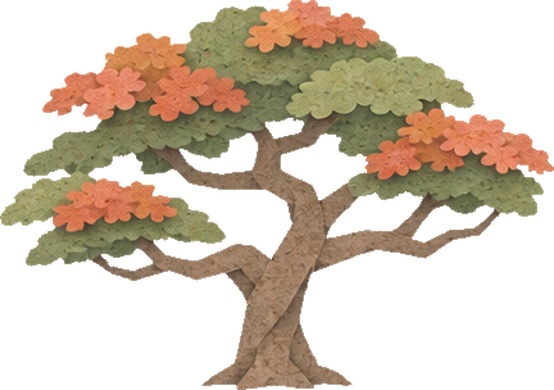
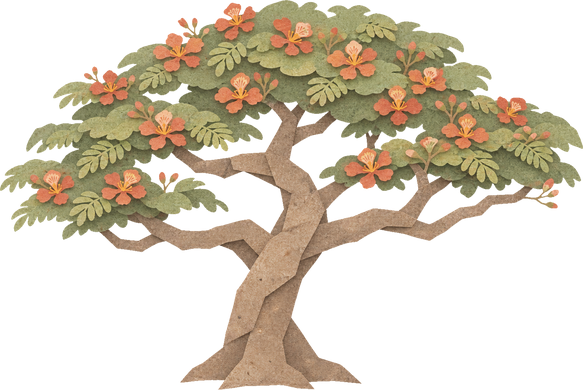
Tainan Gazetteer: picture variants; plumeria restored, flame tree redrawn
- Assets may list variants; street items and placed pieces pick one by position
  so repeats vary (art bible 9a).
- The user preferred the earlier plumeria: the true-size redraw was too sparse
  and realistic. The earlier one is the main picture again and candidate 1 of
  request 29 (fuller) is its variant; the guide now says to keep elements a
  consistent size but crowns full and clustered.
- Flame tree from request 30: candidates 1-3 (full crown, many small flowers)
  as the tree and two variants; more plumerias on the street and in the lane.
- Request 31 (bush, flower and grass variants) is with Codex.

Claude-Session: https://claude.ai/code/session_01SWmRBCoZi5zDewCs1B5KjF

diff --git a/yokai-night-market/src/data/manifest.ts b/yokai-night-market/src/data/manifest.ts
@@ -27,6 +27,7 @@ export interface Asset {
   tags?: string[];              // 'furniture' can be placed; 'landmark' stands on the street; 'stall'; 'fauna'
   replaces?: string[];          // older sprite keys this picture is drawn for
   name?: string;                // working label for editors and the backlog, not shown to players
+  variants?: string[];          // other pictures of the same thing (keys); the game picks one by position so repeats vary
 }
 
 const a = (key: string, layer: AssetLayer, height: number, status: AssetStatus, extra: Partial<Asset> = {}): Asset =>
@@ -50,7 +51,8 @@ export const ASSETS: Asset[] = [
   a('literature', 'building', 124, 'placeholder', { tags: ['landmark'], name: '臺灣文學館（舊臺南州廳；Codex 紙雕試畫，待核可）' }),
   a('panggongSide', 'building', 130, 'placeholder', { tags: ['landmark'], name: '泮宮石坊（斜角）' }),
   a('confuciusWall', 'decor', 54, 'placeholder', { tags: ['connector'], name: '孔廟紅圍牆' }),
-  a('plumeria', 'tree', 90, 'approved', { name: '雞蛋花' }),
+  a('plumeria', 'tree', 90, 'approved', { name: '雞蛋花', variants: ['plumeria1'] }),
+  a('plumeria1', 'tree', 90, 'approved', { name: '雞蛋花（變體，29 候選一）' }),
   a('norfolkPine', 'tree', 175, 'placeholder', { name: '南洋杉' }),
   a('rainTree', 'tree', 140, 'placeholder', { name: '雨豆樹' }),
   a('signLane', 'decor', 46, 'placeholder', { name: '告示牌：前往花巷（待核可）' }),
@@ -118,7 +120,9 @@ export const ASSETS: Asset[] = [
   a('sakura', 'tree', 120, 'approved', { source: 'atlas', cell: 6, tags: ['furniture'], footprint: [2, 2], name: '櫻花' }),
   a('maple', 'tree', 120, 'placeholder', { source: 'atlas', cell: 7, replaces: ['phoenix'], tags: ['furniture'], footprint: [2, 2], name: '楓樹（暫代鳳凰木）' }),
   a('banyan', 'tree', 150, 'placeholder', { name: '榕樹（待核可）' }),
-  a('flameTree', 'tree', 130, 'placeholder', { name: '鳳凰木（待核可）' }),
+  a('flameTree', 'tree', 130, 'placeholder', { name: '鳳凰木（30 候選一，待核可）', variants: ['flameTree2', 'flameTree3'] }),
+  a('flameTree2', 'tree', 130, 'placeholder', { name: '鳳凰木（變體）' }),
+  a('flameTree3', 'tree', 130, 'placeholder', { name: '鳳凰木（變體）' }),
   a('royalPalm', 'tree', 150, 'placeholder', { name: '大王椰子（待核可）' }),
   a('literatureSide', 'building', 102, 'placeholder', { name: '文學館側翼（待核可）' }),
   a('literatureWall', 'decor', 30, 'placeholder', { tags: ['connector'], name: '文學館矮圍牆（待核可）' }),
@@ -163,4 +167,11 @@ export const PENDING_ART = new Set<string>(SPRITE_ASSETS.filter((x) => x.status 
 export const REPLACES: Record<string, string> = {};
 for (const x of SPRITE_ASSETS) for (const old of x.replaces ?? []) REPLACES[old] = x.key;
 
+// the picture to draw for `key` at a position: the key itself or one of its variants, fixed per spot
+export function variantAt(key: string, a: number, b: number, has: (k: string) => boolean): string {
+  const all = [key, ...(ASSET[key]?.variants ?? [])].filter(has);
+  if (all.length < 2) return key;
+  const h = (Math.imul(a | 0, 73856093) ^ Math.imul(b | 0, 19349663)) >>> 0;
+  return all[h % all.length];
+}
 export const withTag = (tag: string): Asset[] => SPRITE_ASSETS.filter((x) => x.tags?.includes(tag));

diff --git a/yokai-night-market/src/render/place.ts b/yokai-night-market/src/render/place.ts
@@ -3,7 +3,7 @@
 // from the top of the yard down, so a bigger gy is nearer the camera and things sort by it. Every
 // placeable piece is designed to fill whole cells (its footprint in the manifest is width x depth
 // in cells). Walls are not handled yet; `surface` in the saved record keeps room for them.
-import { ASSET, withTag } from '../data/manifest';
+import { ASSET, variantAt, withTag } from '../data/manifest';
 import { hasArt } from './paperAtlas';
 import { spr } from './sprites';
 import { CH, CW, FLOOR_Y0, FLOOR_Y1, street, type StreetExtra } from './street';
@@ -75,7 +75,7 @@ export function placedExtras(list: Placed[]): StreetExtra[] {
       // centred on the cell and larger than it; sorted by the cell's front edge so nearer clumps overlap
       const cx = x0 + CW / 2, by = y0 + CH;
       return { y: by - 6, draw: (c: CanvasRenderingContext2D) => {
-        const s = spr(p.key), k = (CW * CLUMP) / s.w;
+        const s = spr(variantAt(p.key, p.gx, p.gy, hasArt)), k = (CW * CLUMP) / s.w;
         c.save(); c.translate(cx, by + CH * 0.15); c.scale((p.flip ? -1 : 1) * k, k); c.drawImage(s.c, -s.w / 2, -s.h, s.w, s.h); c.restore();
       } };
     }
@@ -84,7 +84,7 @@ export function placedExtras(list: Placed[]): StreetExtra[] {
     }
     const x = x0 + (w * CW) / 2, y = y0 + d * CH - 3;
     return { y, draw: (c: CanvasRenderingContext2D) => {
-      const s = spr(p.key);
+      const s = spr(variantAt(p.key, p.gx, p.gy, hasArt));
       // a small contact shadow, never wider than the piece's own cells
       const r = Math.min(s.w * 0.36, w * CW * 0.42);
       c.fillStyle = 'rgba(106,70,50,0.14)'; c.beginPath(); c.ellipse(x, y, r, Math.min(r * 0.28, 5), 0, 0, Math.PI * 2); c.fill();

diff --git a/yokai-night-market/src/render/street.ts b/yokai-night-market/src/render/street.ts
@@ -2,7 +2,7 @@
 // data (src/data/street.json and the asset manifest); this file only lays it out and draws it.
 import rawStreet from '../data/street.json';
 import rawLane from '../data/lane.json';
-import { ASSET } from '../data/manifest';
+import { ASSET, variantAt } from '../data/manifest';
 import { hasArt } from './paperAtlas';
 import { PUPPETS } from './puppet';
 import { spr } from './sprites';
@@ -281,7 +281,8 @@ function drawGround(c: CanvasRenderingContext2D, left: number): void {
   if (g) { c.fillStyle = g; c.fillRect(left, top, viewW, H - top); }
 }
 
-function drawItem(c: CanvasRenderingContext2D, it: StreetItem, y: number, alpha = 1): void {
+function drawItem(c: CanvasRenderingContext2D, it0: StreetItem, y: number, alpha = 1): void {
+  const it = { ...it0, key: variantAt(it0.key, Math.round(it0.x), 7, hasArt) };
   const asset = ASSET[it.key], k = it.scale ?? 1;
   c.globalAlpha = alpha;
   if (hasArt(it.key)) {

diff --git a/yokai-night-market/docs/art/ART-BIBLE.md b/yokai-night-market/docs/art/ART-BIBLE.md
@@ -22,10 +22,13 @@
 ### 尺度與密度
 8. **建築 compact。** 只取最有辨識度的一段，寬不超過高的 1.4 倍（例外寫在各類別）。需要長的建築就拆段：中段加可接的側翼（例：文學館攤開三面）。
 9. **密度要低、元素要大。** 一格裡只放一兩個主體：一格一朵花（或一大一小）、一格一塊石板、柵欄木樁之間大片透空。細碎、擠滿的圖案退回。
+9a. **常見的東西要有變體。** 植物（花叢、灌木、草叢、樹）每種準備二到四個版本，同顏色同葉子大小、但輪廓與花葉排法不同；遊戲依位置自動輪流挑（manifest 的 `variants`），大量擺放時不會一模一樣（2026-11-22 使用者）。
+9a. **常見的東西要有變體。** 植物（花叢、灌木、草叢、樹）每種準備二到四個版本，同顏色同葉子大小、但輪廓與花葉排法不同；遊戲依位置自動輪流挑（manifest 的 `variants`），大量擺放時不會一模一樣（2026-11-22 使用者）。
 10. **畫面要近、要滿。** 遊戲畫面裡建築和人物要大，不留大片空白；這主要由程式調整，但物件比例要能承受放大。
 
 10a. **照遊戲裡的實際大小生成，不靠縮放。** 遊戲比例是壓縮過的（不照真實比例：人約 58 單位高）。每個物件照下表的遊戲尺寸單張生成，存檔解析度是遊戲尺寸的 6 倍（例如 150 單位高的樹畫成約 900 px 高），不放進 3×2 格子表再縮放。這樣每張圖的紙纖維、印刷顆粒和剪紙元素在畫面上一樣大，看不出縮放痕跡（2026-11-22 使用者：「材質和輪廓的表現一定會被看出有 scaling 的痕跡」）。
-    - 元素大小固定：一片葉子約 6–9 單位、一朵花約 5–8 單位、一塊磚約 3×1.5 單位、一顆石板約 20 單位。小樹也用同樣大小的葉子，所以葉子數量少，而不是葉子變大。
+    - 元素大小大致固定：一片葉子約 6–9 單位、一朵花約 5–8 單位、一塊磚約 3×1.5 單位、一顆石板約 20 單位。
+    - **但要飽滿，不要寫實得很虛。** 小樹的葉子可以略大（到 1.5 倍）、葉叢聚成幾團，樹冠讀起來是一塊，而不是稀疏的枝條加零星小葉（2026-11-22 使用者：雞蛋花「新版太真實看起來很虛，平衡一下」）。核可的範例：`art-source/refs/plumeria-approved-old.png`（主圖）與 `art-inbox/29-plumeria-true-size/candidate-1.png`（變體）；太稀疏的反例：29 的 candidate-2、3、4。
     - 尺寸表（遊戲單位，高度）：人 58；雞蛋花 90；全臺首學門 120；鳳凰木 130；建築 120–130；榕樹 150；雨豆樹 140；大王椰子 150；南洋杉 175；石燈籠 65；盆栽 26；花叢 24；柵欄 34。
 
 ### 可拼接

diff --git a/yokai-night-market/art-source/requests/31-plant-variants.md b/yokai-night-market/art-source/requests/31-plant-variants.md
@@ -1,0 +1,26 @@
+# 植物變體：讓花叢、灌木、草叢不重複
+
+- 需求單：`31-plant-variants`
+- 交付到：`art-inbox/31-plant-variants/`（附 `batch.json`）
+- 檔案：每一件單獨一張 PNG（不要拼成格子表），檔名見下。
+- 先讀 `docs/art/ART-BIBLE.md` 通用原則，特別是 10a（照實際大小、元素大小固定）、12a（超出格子、相鄰重疊）、新加的 9a（變體）。
+
+## 為什麼
+
+使用者 2026-11-22：「其他植物 asset 也可以多生成幾個，這樣看起來也不會太重複。」遊戲會依位置自動在同一種植物的幾個版本之間輪流挑，所以每種要再多兩三個版本。
+
+## 標準
+
+- 畫法照使用者核可的 `art-source/refs/plumeria-approved-old.png` 與 `art-inbox/29-plumeria-true-size/candidate-1.png`：葉叢飽滿成團、紙纖維明顯；不要像 29 的 candidate-2 到 4 那樣稀疏（使用者覺得太寫實、看起來很虛）。把它們和 `public/art/paper-atlas.png` 當風格輸入圖。
+- 現有版本在 `public/art/tainan/<key>.png`，新版本要是「同一種植物的另一株」：同樣的顏色和葉子大小，但輪廓、葉子排法、花的位置和數量都不同。
+- 尺寸：花叢、灌木在遊戲裡約 24 單位高，存檔 6 倍，每張約 144 px 高、寬約 170 px；草叢約 16 單位，約 96 px 高。葉子約 6–9 單位（36–54 px）、花約 5–8 單位（30–48 px）。
+
+## 內容（每個檔一件）
+
+- 灌木：`bushC.png`、`bushD.png`
+- 白花叢：`flowerWhite2.png`、`flowerWhite3.png`
+- 黃花叢：`flowerYellow2.png`、`flowerYellow3.png`
+- 粉花叢：`flowerPink2.png`、`flowerPink3.png`
+- 草叢：`grassTuft2.png`、`grassTuft3.png`、`grassTuft4.png`（高矮、葉數、彎的方向不同）
+
+原生透明背景，無光暈、無底色。如果某件生成多次，候選也一起放進資料夾（`<檔名>-candidate-N.png`）。
